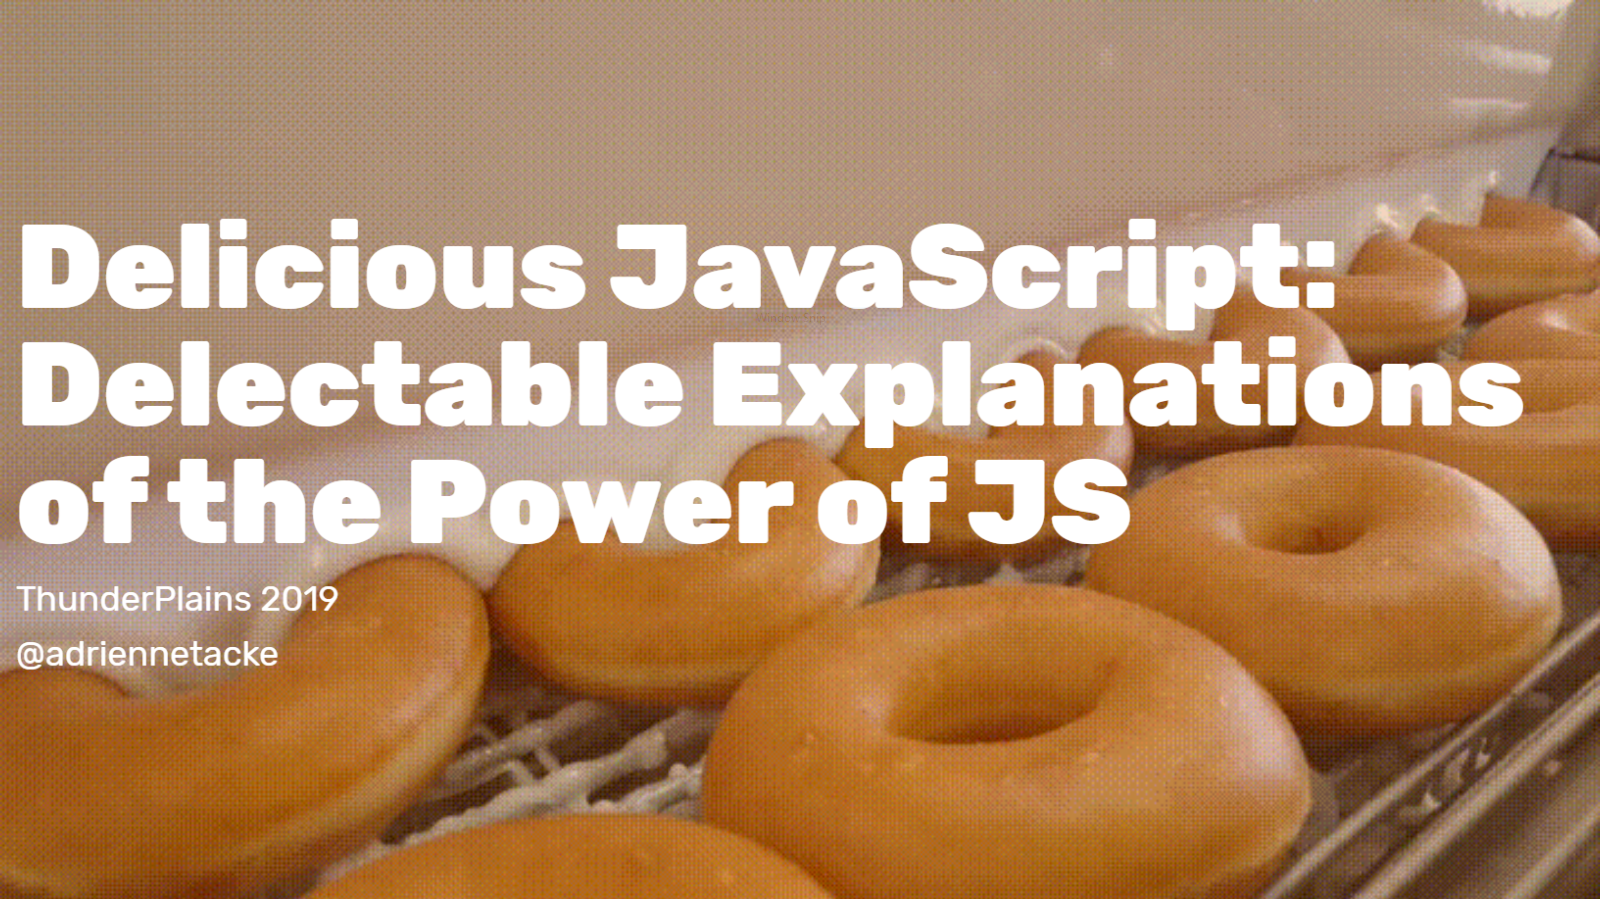
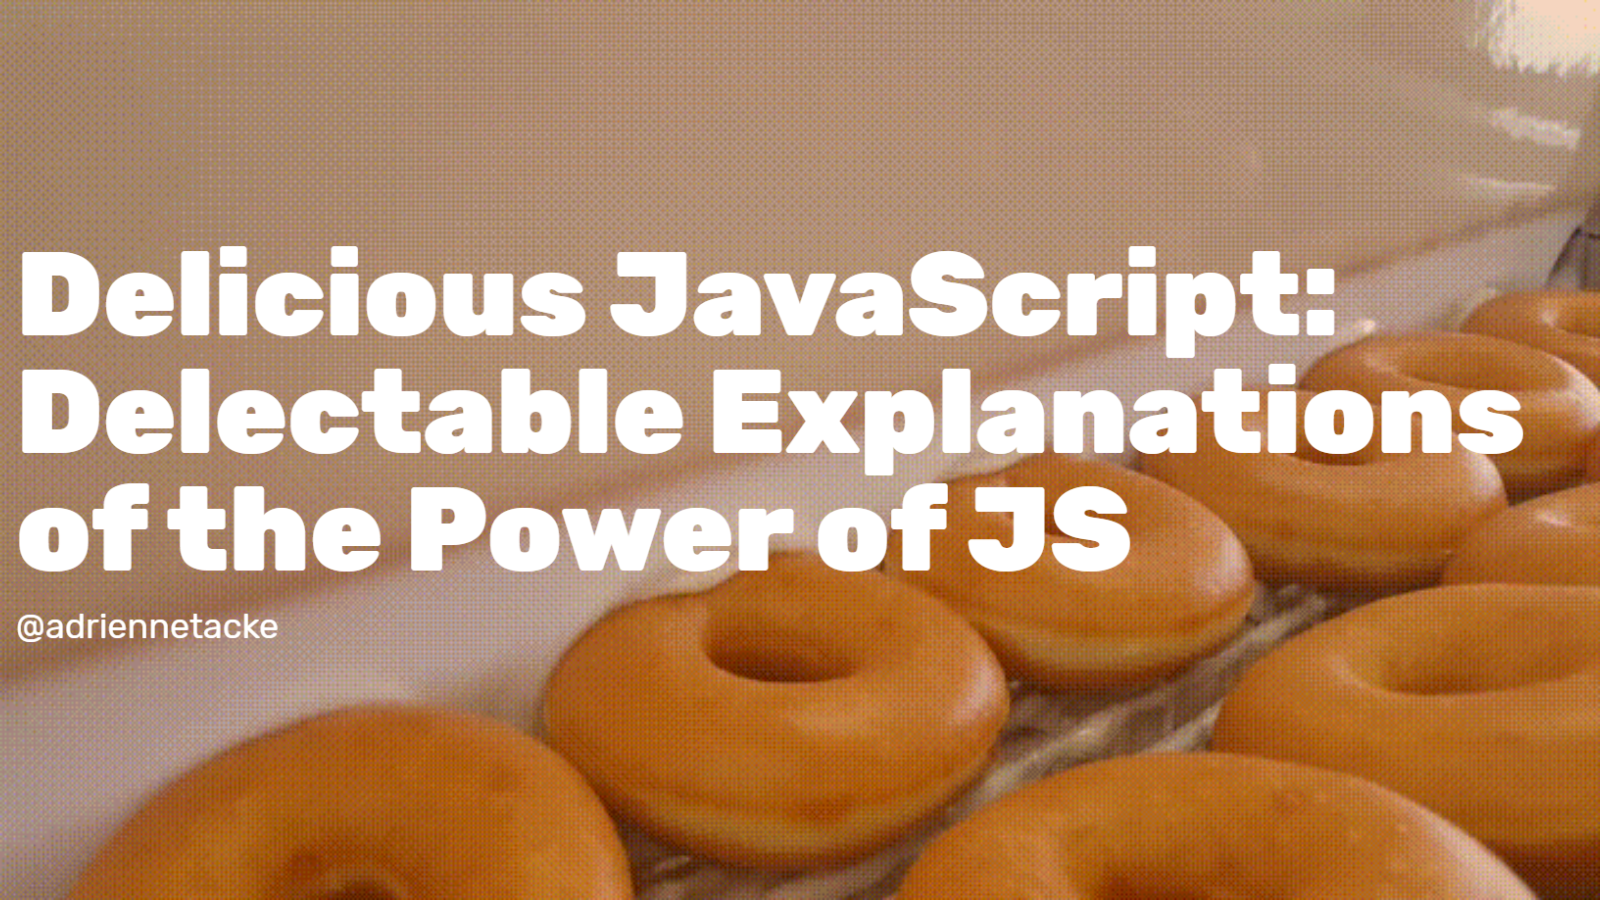
feature: generalize so master branch can be used as 'follow along' copy

diff --git a/index.html b/index.html
@@ -34,7 +34,6 @@
 				>
 					<h1>Delicious JavaScript: Delectable Explanations of the Power of JS</h1>
 					<div style="display:flex;flex-direction:column;align-items:flex-start;justify-content:flex-start;">
-						<h4 class="name">ThunderPlains 2019</h4>
             <h4 class="name">@adriennetacke</h4>
 					</div>
 				</section>

diff --git a/README.md b/README.md
@@ -1,8 +1,4 @@
 # Delicious JavaScript: Delightful Explanations of the Power of JS
 
-## Presented at [ThunderPlains](https://2019.thunderplainsconf.com/)
-
-🗺 Oklahoma City, OK, USA | Oct 22, 2019 | [Adrienne Tacke](https://blog.adrienne.io/speaking)
-
 ![Cover slide](./assets/cover.PNG)
-## ▶ [View Presentation in Browser](https://adriennetacke.github.io/delicious-js/)
+## ▶ [Follow along & View in Browser](https://adriennetacke.github.io/delicious-js/)
